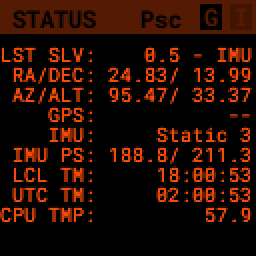
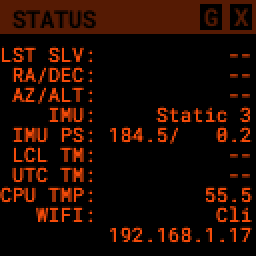
Add wifi and system options to docs

diff --git a/docs/user_guide.md b/docs/user_guide.md
@@ -7,13 +7,15 @@
   * [Camera Setup](#camera%20setup) 
   * [Camera Alignment](#camera%20alignment) 
 - [UI Screens](#ui%20screens)
+  * [Options](#options)
   * [Chart](#chart)
   * [Catalog](#catalog)
   * [Locate](#locate)
-* [Special Screens](#special%20screens)
+* [System Screens](#system%20screens)
   * [Log](#log)
   * [Preview](#preview)
   * [Status](#status)
+    * [System Options](#system%20options)
   * [Console](#console)
 - [How-To](#how-to)
   * [First Time Setup](#first%20time%20setup)
@@ -99,8 +101,31 @@ Some actions in one screen will move you to another, for instance selecting an o
 
 The remaining function keys serve different purposes depending on which screen you are on at the time you press them, but there are some key-combinations that act across any of the individual screens:
 
-* Long press _A_:  For screens with options, such a the Catalog screeen, holding down the A function key will bring up the configuration items for that screen.
+* Long press _A_:  For screens with options, such a the Catalog screeen, holding down the _A_ function key will bring up the options for that screen.  See [Options](#options) below.
 * _ENT + UP/DN_: This combination will adjust the screen brightness up and down at any time.
+
+### Options
+Many screens have options which change the way they behave or perform other less commonly used actions.  Pressing and holding the _A_ button will bring up the options for whichever screen you are currently using.  To exit the option screen press _A_ to return to the previous screen.
+
+![Options screen for Catalog](../images/screenshots/CATALOG_OPTIONS_001_docs.png)
+
+The options screen will show one option or action item per line with the name or description of the item to the left and the current value to the right.  The bright numbers along the left edge indicate the key on the keypad to press to access that item.
+
+![Options screen for Catalog, magnitude exposed](../images/screenshots/CATALOG_OPTIONS_002_docs.png)
+
+Once an item is selected the item will be highlighted and the available values or types of actions will be listed along the right hand side.   The bright numbers along the right hand side will let you select the value(s) for this item.
+
+Some types of options can only have a single value, like Magnitude above.  Others, such as Obj Types will allow you to select multiple values.  If an option only has a single value, selecting it will return you to the main options page.  For options that can have multiple values, you'll need to use the _ENT_ key to confirm your selections and return to the main option page.
+
+The Options screen can also contain less commonly used actions which will take place when a value is selected.  
+
+![Options screen for Status](../images/screenshots/STATUS_OPTIONS_001_docs.png)
+
+The Options screen shown above (for the Status screen) has general PiFinder options along with a couple actions.  Selecting an action item, such as _1_, will always have one additional step to confirm the action, or allow you exit.
+
+![Options screen for Status](../images/screenshots/STATUS_OPTIONS_002_docs.png)
+
+To exit the option screen press _A_ to return to the previous screen.
 
 ### Chart
 ![Chart interface](../images/screenshots/CHART_001_docs.png)
@@ -165,7 +190,7 @@ Values are expressed in degrees with the top line being rotation in Azimuth and 
 
 The currently target is also displayed on the [Chart](#Chart) screen as a small tick mark.
 
-## Special Screens
+## System Screens
 The screens listed below are more rarely used and do not show up when rotating through the regular UI screens using the _A_ key.  To access these screens, rotate through them using the _ENT-A_ combination.  
 
 ### Log
@@ -218,6 +243,16 @@ The status screen displays:
 * LCL TM: Local time (requires GPS fix)
 * UTC TM: UTC Time (requires GPS fix)
 * CPU TMP: Temperature of the Raspberry PI CPU
+* WiFi: Current WiFi mode, either AP for access point, or Cli for client
+* IP: Current IP address for connecting to via software such as SSH or SkySafari
+
+
+#### System Options
+The [Options](#options) page for the status screen gives access to general PiFinder options and actions.  Press and hold the _A_ key to access the option page.
+* Change [WiFi](#wifi) Mode between client and access point
+* [Restart](#shutdown%20and%20restart) the PiFinder software
+* [Shutdown](#shutdown%20and%20restart) the PiFinder
+
 
 ### Console
 ![Console screen](../images/screenshots/CONSOLE_001_docs.png)
@@ -239,10 +274,12 @@ Here's a quick start guide for your first time operating the PiFinder:
 * If you are in an open area, the GPS dongle should have achieved a lock.  Check  the status indicator in the title bar, or the [Status](#status) screen to verify.  If not, double check the status light on the dongle and make sure it has an unobstructed view of as much sky as possible.  The first solve after being off for a few days needs more satellites and will take longer.  Subsequent locks will be much quicker using some cached data in the dongle.
 
 ### Shutdown and Restart
-There are two special key-combos for Restarting the PiFinder service and Shutting down the device before power-off.  Although shutting down is not strictly needed before power-off, the PiFinder is a computer and there is a chance of file corruption.  Some MicroSD cards are more sensitive to this than others.
 
-* Pressing the _7 8 9_ keys at the same time will restart the PiFinder software.  This should not normally be needed, but can be useful for generating a new session id which is included for a photos and logging during a particular execution of the PiFinder software.
-* Pressing the _1 2 3_ keys at the same time will shutdown the PiFinder system.  After 15 seconds you can then power off the system knowing the OS has properly closed all files.
+Although shutting down is not strictly needed before power-off, the PiFinder is a computer and there is a chance of file corruption.  Some MicroSD cards are more sensitive to this than others.
+
+Shutdown and Restart actions are available from the [Options](#options) for the [Status](#status) screen.  Hold down _Ent_ and press _A_ to cycle through the system screens until you see the status screen, the press and hold _A_ to access the options.
+
+Restarting the PiFinder software should not normally be needed, but can be useful for generating a new session id which is included for a photos and logging during a particular execution of the PiFinder software.
 
 #### Custom lists
 Custom observing lists coming soon....

diff --git a/docs/software.md b/docs/software.md
@@ -5,7 +5,7 @@ Once you've built or otherwise obtained a PiFinder, here's how to setup a fresh 
 ## General Pi Setup
 * Create Image:  I'd strongly recommend using the Rapsberry Pi imager.  It's available for most platforms and lets you easily setup wifi and SSH for your new image.
 	* Select the 64-Bit version of Pi OS Lite (No Desktop Environment)
-	* Setup SSH / Wifi / User and Host name using the gear icon.  Below is a screengrab showing the suggested settings.  The username must be pifinder, but the host name, password, network settings and locale should be customized for your needs.
+	* Setup SSH / Wifi / User and Host name using the gear icon.  Below is a screengrab showing the suggested settings.  The username must be `pifinder`, but the host name, password, network settings and locale should be customized for your needs.
 ![Raspberry Pi Imager settings](../images/raspi_imager_settings.png)
 
 * Once the image is burned to an SD card, insert it into the PiFinder and power it up.   It will probably take a few minutes to boot the first time.
